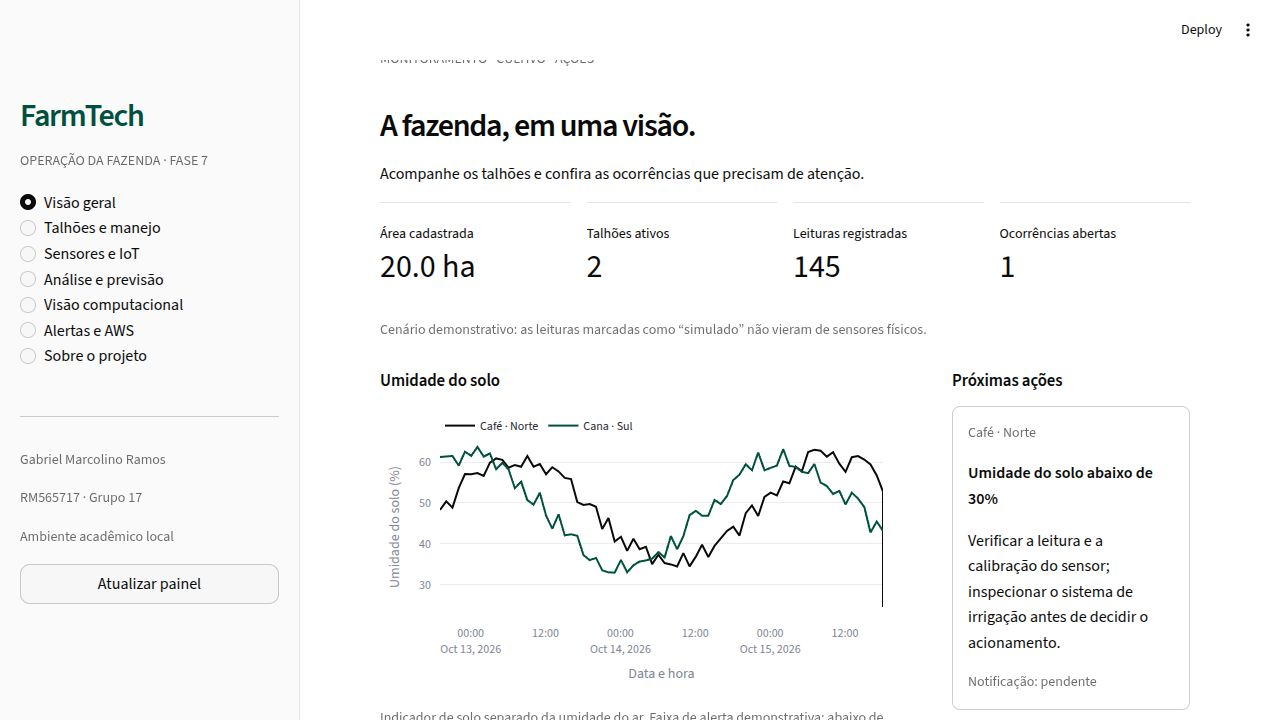
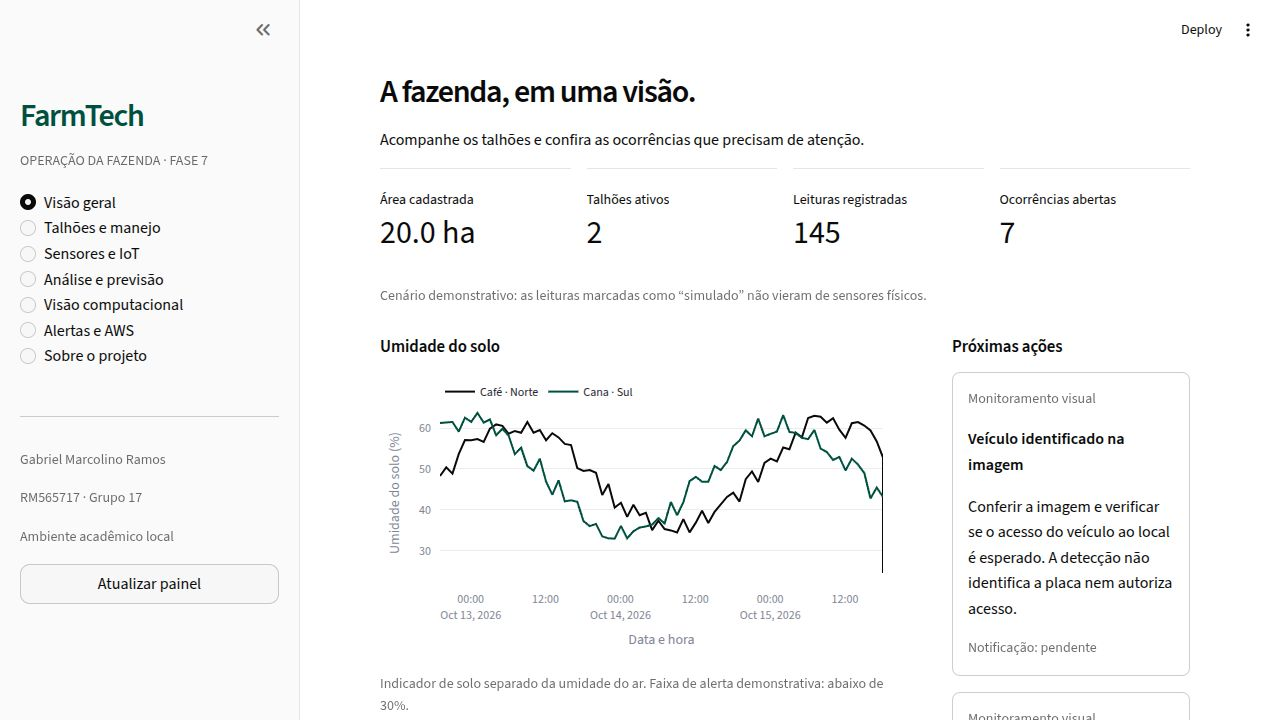
Valida reproducao em ambiente limpo e organiza ocorrencias no painel

diff --git a/app.py b/app.py
@@ -85,9 +85,16 @@ if section=='Visão geral':
         with right:
             st.subheader('Próximas ações')
             if not open_alerts:st.success('Nenhuma ocorrência aberta.')
-            for a in open_alerts[:3]:
+            groups={}
+            for item in open_alerts:
+                key=(item['regra'],item['talhao'])
+                if key not in groups:groups[key]={'alert':item,'count':0}
+                groups[key]['count']+=1
+            ordered=sorted(groups.values(),key=lambda group:{'solo_seco':3,'ph_faixa':2,'nutrientes':1,'veiculo':0}.get(group['alert']['regra'],0),reverse=True)
+            for group in ordered[:3]:
+                a=group['alert']
                 with st.container(border=True):
-                    st.caption(a['talhao'] or 'Monitoramento visual')
+                    st.caption((a['talhao'] or 'Monitoramento visual')+f" · {group['count']} ocorrência(s)")
                     st.markdown('**'+a['titulo']+'**');st.write(a['acao'])
                     st.caption('Notificação: '+a['notificacao'])
         st.subheader('Talhões em acompanhamento')

diff --git a/README.md b/README.md
@@ -38,6 +38,8 @@ python -m farmtech alertas
 python -m pytest -q
 ```
 
+A instalação foi conferida em uma cópia limpa com ambiente Python separado: dependências compatíveis, 18 testes aprovados, métricas reproduzidas e inferência dos 4 modelos executada em CPU. [Registro da reprodução](results/reproducao.json). A validação estática do template AWS passou; isso não comprova implantação.
+
 ## Serviços integrados
 
 | Fases | Função no painel | Implementação |
